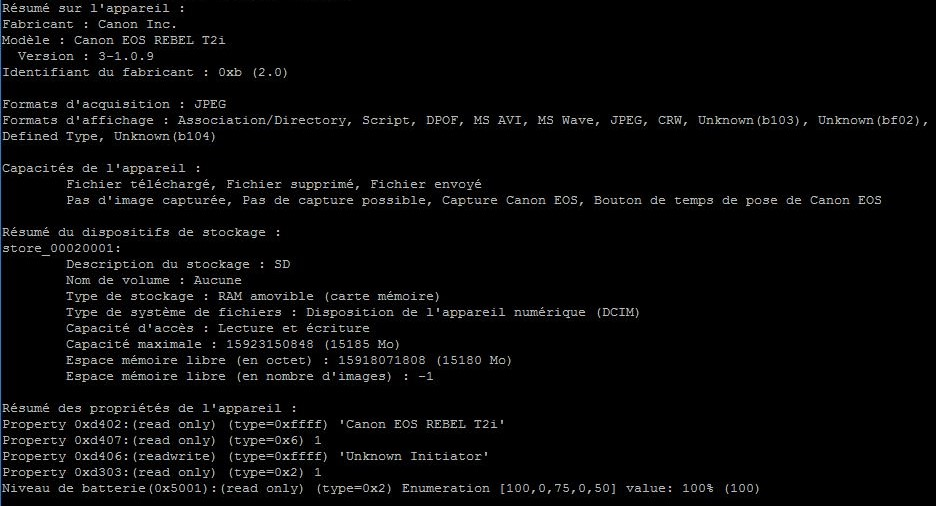
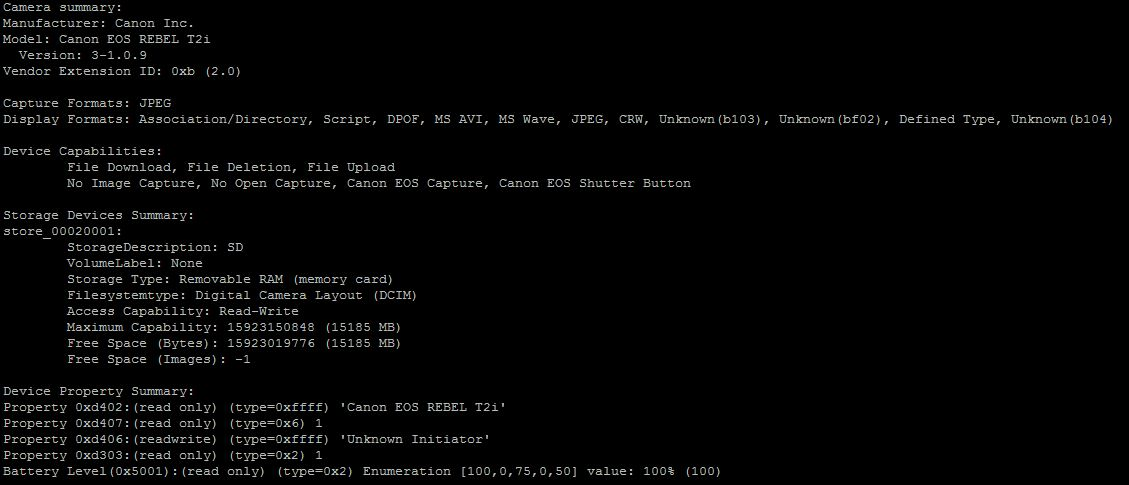
CHG Standard english message from Gphoto2

diff --git a/Camera.py b/Camera.py
@@ -7,9 +7,9 @@ from shutil import copyfile
 
 #keywords to find camera status in Gphoto2 --summary
 #Warning : to avoid encoding problem, i chose words without diacritics
-keywordsInUse = "*** Erreur ***"
-keywordsNoCamera = "*** Erreur : aucun appareil trouv"
-keywordsCameraOk = " sur l'appareil"
+keywordsInUse = "Camera is already in use"
+keywordsNoCamera = "*** Error: No camera found. ***"
+keywordsCameraOk = "Access Capability: Read-Write"
 
 #debug variable is here to avoid using DSLR for testing
 debug=False
